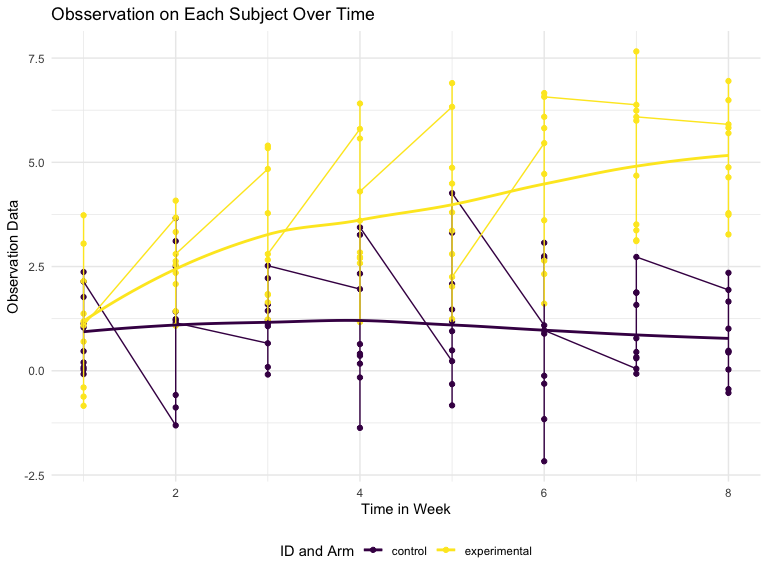
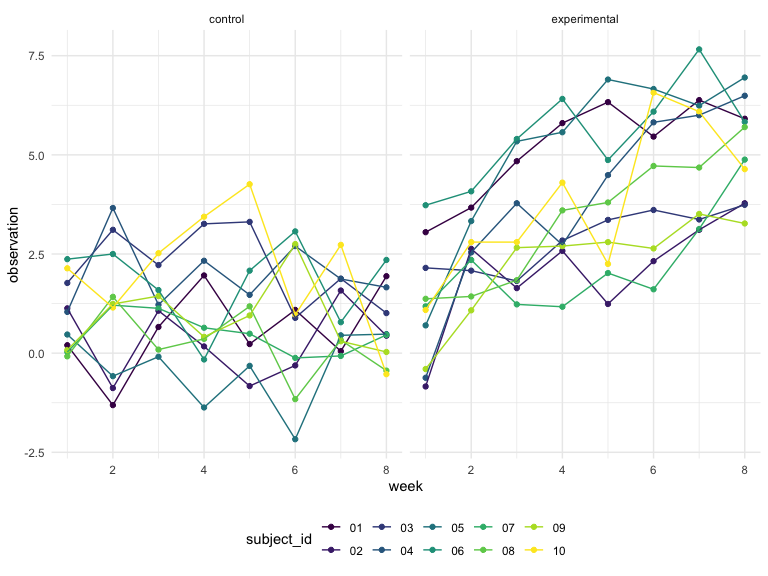
Problem 2: Fix Spagetti plot.

diff --git a/p8105_hw5_tw2918.md b/p8105_hw5_tw2918.md
@@ -204,10 +204,15 @@ longit_study_df |>
 
 ``` r
 longit_study_df |>
-  ggplot(aes(x = week, y = observation, color = arm)) +
+  ggplot(aes(x = week, y = observation, color = subject_id)) +
   geom_point() +
   geom_line() +
-  geom_smooth(method = "loess", se = FALSE) +
+  facet_grid(~arm)
+```
+
+<img src="p8105_hw5_tw2918_files/figure-gfm/unnamed-chunk-9-1.png" width="90%" />
+
+``` r
   labs(
     title = "Obsservation on Each Subject Over Time ",
     x = "Time in Week",
@@ -216,9 +221,20 @@ longit_study_df |>
     ) 
 ```
 
-    ## `geom_smooth()` using formula = 'y ~ x'
-
-<img src="p8105_hw5_tw2918_files/figure-gfm/unnamed-chunk-9-1.png" width="90%" />
+    ## $x
+    ## [1] "Time in Week"
+    ## 
+    ## $y
+    ## [1] "Observation Data"
+    ## 
+    ## $colour
+    ## [1] "ID and Arm"
+    ## 
+    ## $title
+    ## [1] "Obsservation on Each Subject Over Time "
+    ## 
+    ## attr(,"class")
+    ## [1] "labels"
 
 *comment on differences between groups*
 
